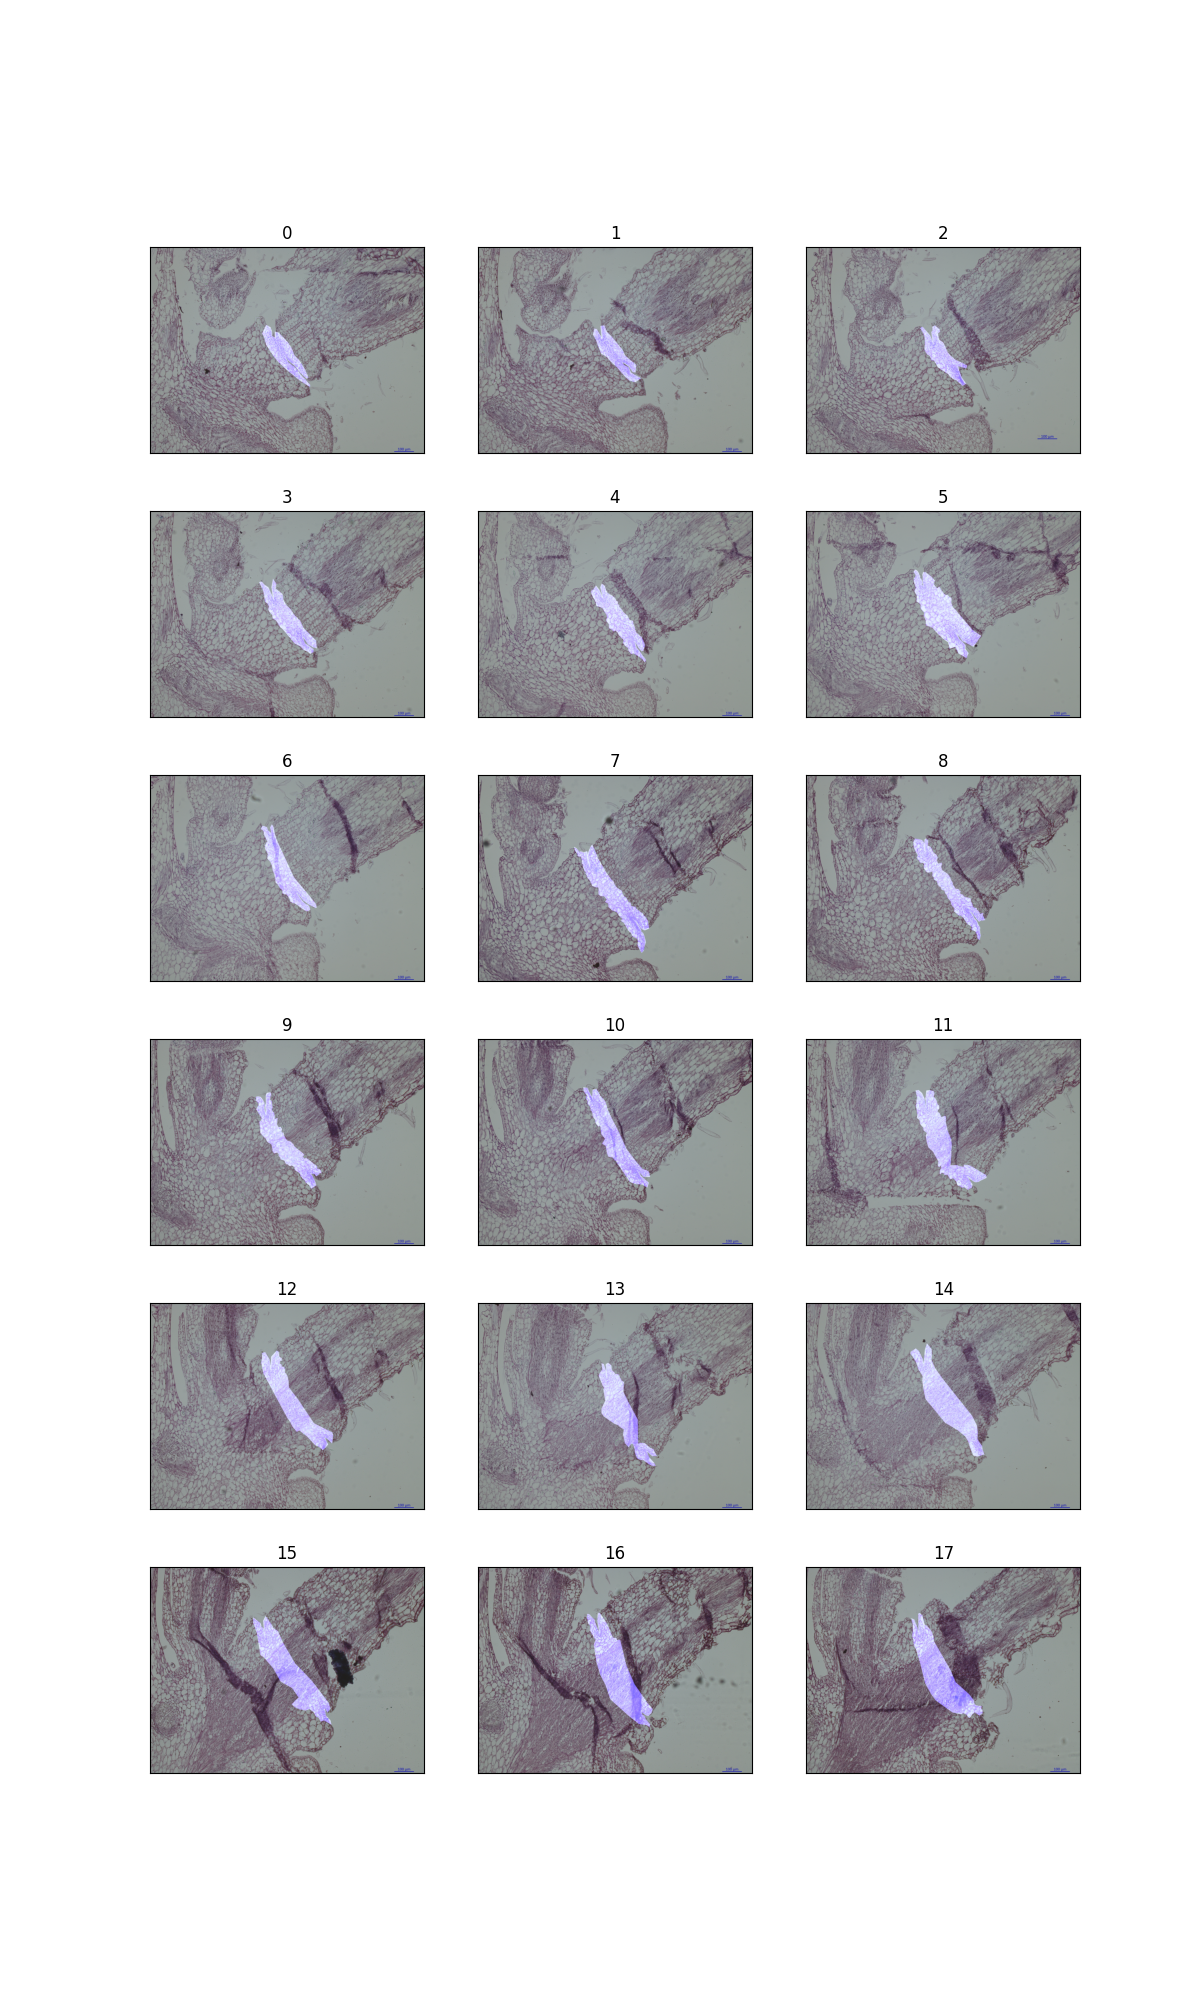
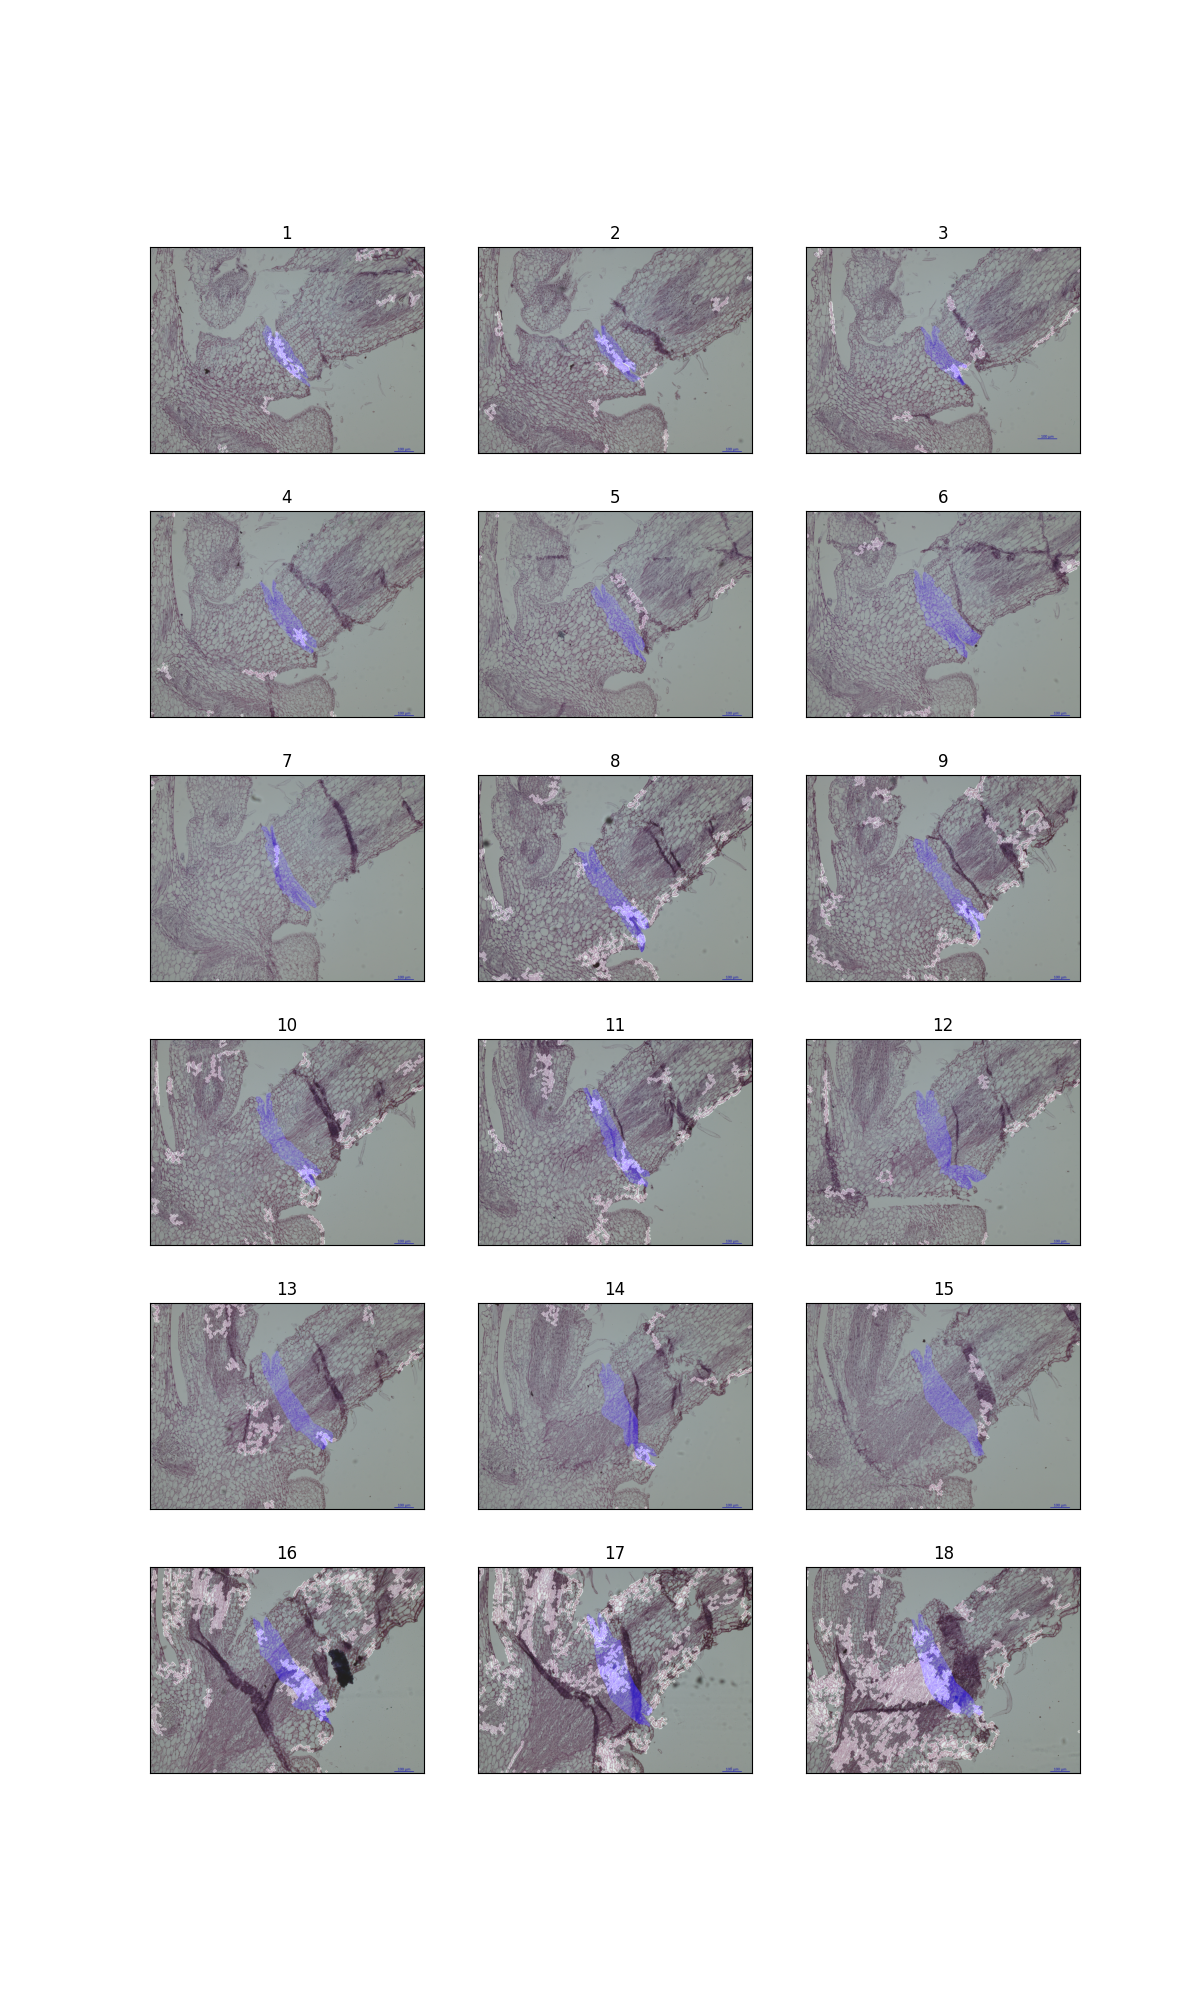
Run

diff --git a/evaluation.py b/evaluation.py
@@ -45,14 +45,13 @@ def color_dict(labelFolder, classNum):
 
 
 def displayComparison(visual_path, predict_path, i):
-    PredictList = os.listdir(predict_path)
     VisualList = os.listdir(visual_path)
-    label1 = cv2.imread(visual_path + "/" + VisualList[i-1])
-    prediction1 = cv2.imread(predict_path + "/" + PredictList[i])
-    result1 = cv2.addWeighted(label1, 0.7, prediction1, 0.3, 10)
-    cv2.namedWindow("Result", 0);
-    cv2.resizeWindow("Result", 900, 600);
-    cv2.imshow("Result", result1)
+    label1 = cv2.imread(visual_path + "/" + VisualList[i - 1])
+    prediction1 = cv2.imread(predict_path + "/" + "/mask_" + str(i) + ".jpg")
+    result = cv2.addWeighted(label1, 0.7, prediction1, 0.3, 10)
+    cv2.namedWindow("Result" + str(i), 0)
+    cv2.resizeWindow("Result" + str(i), 900, 600)
+    cv2.imshow("Result" + str(i), result)
     cv2.waitKey(0)
 
 
@@ -60,14 +59,14 @@ def DisplayComparisons(visual_path, predict_path):
     PredictList = os.listdir(predict_path)
     VisualList = os.listdir(visual_path)
     pic_num = len(PredictList)
-    plt.figure(figsize = (12, 20))
+    plt.figure(figsize=(12, 20))
     plt.title("Comparison")
     for i in range(pic_num):
         label = cv2.imread(visual_path + "/" + VisualList[i])
-        prediction = cv2.imread(predict_path + "/" + PredictList[i])
+        prediction = cv2.imread(predict_path + "/mask_" + str(i + 1) + ".jpg")
         result = cv2.addWeighted(label, 0.7, prediction, 0.3, 10)
 
-        plt.subplot(6, 3, i + 1), plt.imshow(result), plt.title(i)
+        plt.subplot(6, 3, i + 1), plt.imshow(result), plt.title(i + 1)
         plt.xticks([]), plt.yticks([])
     plt.show()
 
@@ -81,7 +80,14 @@ class SegmentationMetric(object):
         # return all class overall pixel accuracy
         #  PA = acc = (TP + TN) / (TP + TN + FP + TN)
         acc = np.diag(self.confusionMatrix).sum() / self.confusionMatrix.sum()
+        test = self.confusionMatrix.sum(axis=0)
         return acc
+
+    def meanPixelAccuracy(self):
+        # CPA = (TP) / TP + FP
+        classAcc = np.diag(self.confusionMatrix) / self.confusionMatrix.sum(axis=1)
+        meanAcc = np.nanmean(classAcc)  # np.nanmean 求平均值，nan表示遇到Nan类型，其值取为0
+        return meanAcc  # 返回单个值，如：np.nanmean([0.90, 0.80, 0.96, nan, nan]) = (0.90 + 0.80 + 0.96） / 3 =  0.89
 
     def IntersectionOverUnion(self):
         # Intersection = TP Union = TP + FP + FN
@@ -114,10 +120,12 @@ class SegmentationMetric(object):
     def F1Score(self):
         # Precision = TP / (TP + FP), Recall = TP / (TP + FN)
         # F1-Score = 2 * Precision * Recall / (Precision + Recall)
-        precision = np.diag(self.confusionMatrix) / np.sum(self.confusionMatrix, axis=1)
-        recall = np.diag(self.confusionMatrix) / np.sum(self.confusionMatrix, axis=0)
+        # precision = self.confusionMatrix[0][0] / (self.confusionMatrix[0][0] + self.confusionMatrix[0][1])
+        # recall = self.confusionMatrix[0][0] / (self.confusionMatrix[0][0] + self.confusionMatrix[1][0])
+        precision = np.diag(self.confusionMatrix) / self.confusionMatrix.sum(axis=1)
+        recall = np.diag(self.confusionMatrix) / self.confusionMatrix.sum(axis=0)
         f1score = 2 * precision * recall / (precision + recall)
-        return f1score
+        return f1score[0]
 
     def genConfusionMatrix(self, imgPredict, imgLabel):
         # 返回混淆矩阵
@@ -136,24 +144,27 @@ class SegmentationMetric(object):
 
 
 if __name__ == '__main__':
-    label_path = './visualization'
-    predict_path = './masks'
+    label_path = './masks'
+    predict_path = './predict'
     visual_path = './visualization'
 
     PA = 0
     MIoU = 0
     F1_Score = 0
+    FWIoU = 0
+    MPA = 0
 
     labelList = os.listdir(label_path)
     PredictList = os.listdir(predict_path)
     VisualList = os.listdir(visual_path)
     pic_num = len(labelList)
 
+    sumMetric = SegmentationMetric(2)
     for i in range(pic_num):
         imgLabel = cv2.imread(label_path + "/" + labelList[i])
-        imgPredict = cv2.imread(predict_path + "/" + PredictList[i])
+        imgPredict = cv2.imread(predict_path + "/mask_" + str(i + 1) + ".jpg")
         imgPredict = np.array(imgPredict)
-        imgLabel = np.array(imgLabel, dtype='uint8')  # 可直接换成标注图片
+        imgLabel = np.array(imgLabel, dtype='uint8')
         # 将数据转为单通道的图片
         imgLabel = cv2.cvtColor(imgLabel, cv2.COLOR_BGR2GRAY)
         imgPredict = cv2.cvtColor(imgPredict, cv2.COLOR_BGR2GRAY)
@@ -163,30 +174,32 @@ if __name__ == '__main__':
         metric = SegmentationMetric(2)  # 2表示有1个分类，有几个分类就填几
         print(imgPredict.shape, imgLabel.shape)
         metric.addBatch(imgPredict, imgLabel)
+        sumMetric.addBatch(imgPredict, imgLabel)
 
         PA = metric.pixelAccuracy()
+        MPA = metric.meanPixelAccuracy()
         MIoU = metric.meanIntersectionOverUnion()
         F1_Score = metric.F1Score()
         FWIoU = metric.Frequency_Weighted_Intersection_over_Union()
-        print(metric.meanIntersectionOverUnion())
+        print('图'+str(i+1))
+        print('像素准确率PA:            %.2f%%' % (PA * 100))
+        print('类别平均像素准确率MPA:     %.2f%%' % (MPA * 100))
+        print('平均交并比MIoU:           %.2f%%' % (MIoU * 100))
+        print('权频交并比FWIoU:          %.2f%%' % (FWIoU * 100))
+        print('F1-score:          %.2f%%' % (F1_Score * 100))
+        print(' ')
 
-
+    PA = sumMetric.pixelAccuracy()
+    MPA = sumMetric.meanPixelAccuracy()
+    MIoU = sumMetric.meanIntersectionOverUnion()
+    F1_Score = sumMetric.F1Score()
+    FWIoU = sumMetric.Frequency_Weighted_Intersection_over_Union()
+    print('该case下总体分割精度为：')
     print('像素准确率PA:            %.2f%%' % (PA * 100))
+    print('类别平均像素准确率MPA:     %.2f%%' % (MPA * 100))
     print('平均交并比MIoU:           %.2f%%' % (MIoU * 100))
     print('权频交并比FWIoU:          %.2f%%' % (FWIoU * 100))
-    # print('F1-score:          %.2f%%' % (F1_Score * 100))
+    print('F1-score:          %.2f%%' % (F1_Score * 100))
+
     DisplayComparisons(visual_path, predict_path)
-    displayComparison(visual_path, predict_path, 1)
-
-
-
-
-
-
-
-
-
-
-
-
-
+    displayComparison(visual_path, predict_path, 2)

diff --git a/seperate.py b/seperate.py
@@ -1,0 +1,78 @@
+import os
+
+import numpy as np
+import cv2
+from glob import glob
+
+
+def Segmentation(pic_path, pic_name, predict_path, i):
+    # 读取图片
+    img = cv2.imread(pic_path + pic_name, 1)
+
+    # 转化为灰度图
+    gray = cv2.cvtColor(img, cv2.COLOR_BGR2GRAY)
+
+    ret, thresh = cv2.threshold(gray, 120, 255, cv2.THRESH_BINARY)
+    visualization = cv2.GaussianBlur(thresh, (3, 3), 0)
+
+    # 先对未经过腐蚀膨胀的原图进行连通域的筛选，将部分切片细胞重叠的区域和杂质去除
+    contours, hirearchy = cv2.findContours(visualization, cv2.RETR_TREE, cv2.CHAIN_APPROX_SIMPLE)
+
+    # 筛选出面积大于200的连通域，认为该部分连通域为重叠区域（大型色块）；小于10的区域为杂质或噪点
+    contours2 = []
+    for k in contours:
+        if cv2.contourArea(k) > 200 or cv2.contourArea(k) < 10:
+            contours2.append(k)
+
+    # 将对应的区域扣除
+    visualization1 = 255 - visualization
+    draw2 = cv2.drawContours(visualization1, contours2, -1, (0, 0, 0), -1)
+    visualization = cv2.add(visualization, draw2)
+
+    # 定义腐蚀膨胀的kernel
+    kernel = np.ones((3, 3), np.uint8)
+    kernel[0][0] = kernel[0][2] = kernel[2][0] = kernel[2][2] = 0
+    # 进行腐蚀膨胀操作
+    erosion = cv2.erode(visualization, kernel, iterations=12)
+    dilation = cv2.dilate(erosion, kernel, iterations=3)
+
+    # 对腐蚀膨胀后的图片进行处理，找出非聚集的区域
+    contours1, hirearchy1 = cv2.findContours(dilation, cv2.RETR_TREE, cv2.CHAIN_APPROX_SIMPLE)
+    contours3 = []
+    # 筛选出合适的面积并绘制
+    for s in contours1:
+        if cv2.contourArea(s) > 4000:
+            contours3.append(s)
+    draw = cv2.drawContours(img, contours3, -1, (255, 255, 255), -1)
+
+    # 绘制出识别区域并叠加至原始图像
+    mask = np.ones(img.shape[:3], dtype='uint8')
+    mask[:] = (0, 120, 0)
+    draw = cv2.drawContours(mask, contours3, -1, (0, 0, 0), -1)
+    origin = cv2.imread(pic_path + pic_name, 1)
+    final = cv2.add(origin, draw)
+    # final为最终叠加后的图像结果
+    cv2.namedWindow("final", 0);
+    cv2.resizeWindow("final", 1200, 800);
+    cv2.imshow("final", final)
+
+    # final_mask为黑白图像
+    final_mask = np.ones(img.shape[:2], dtype='uint8') * 255
+    final_mask = cv2.drawContours(final_mask, contours3, -1, (0, 0, 0), -1)
+    print("生成分割结果" + str(i+1))
+    cv2.imwrite(f'{predict_path}/mask_{i + 1}.jpg', final_mask)
+
+    cv2.namedWindow("mask", 0);
+    cv2.resizeWindow("mask", 1200, 800);
+    cv2.imshow("mask", final_mask)
+    cv2.waitKey()
+
+
+if __name__ == '__main__':
+    pic_path = './case1/'
+    predict_path = './predict'
+
+    caseList = os.listdir(pic_path)
+    pic_num = len(caseList) - 1
+    for i in range(pic_num):
+        Segmentation(pic_path, caseList[i], predict_path, i)
